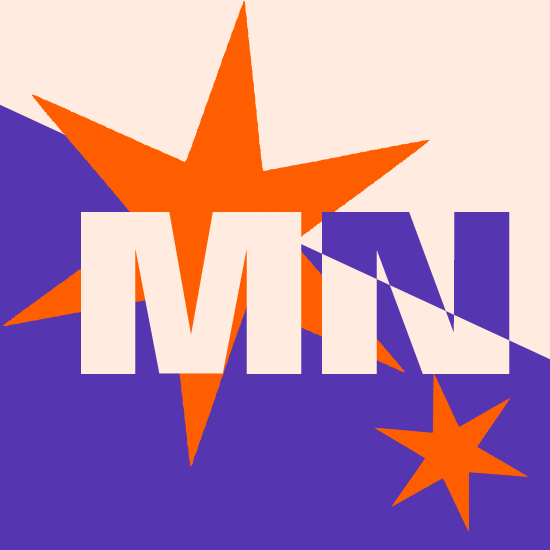
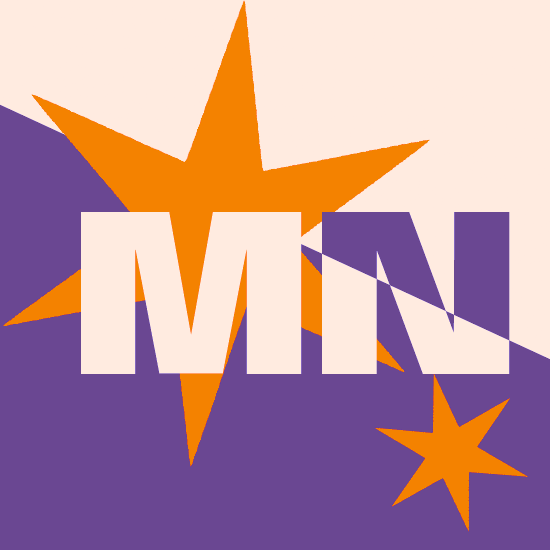
tweaking themes

diff --git a/src/assets/js/themetoggle.js b/src/assets/js/themetoggle.js
@@ -1,12 +1,5 @@
 const darkModeIcon = document.getElementById("dark-mode-icon");
-const themes = [
-  "light",
-  "codec",
-  "aquarium",
-  "sepia",
-  "strawberry",
-  "midnight",
-];
+const themes = ["plum", "codec", "aquarium", "sepia", "strawberry", "midnight"];
 const mii = document.getElementById("mii");
 
 (() => {
@@ -26,7 +19,6 @@ function toggleDarkMode() {
         1) %
         themes.length
     ];
-  console.log(targetTheme);
   document.documentElement.setAttribute("data-theme", targetTheme);
   localStorage.setItem("theme", targetTheme);
   toggleDarkModeIcon(targetTheme);
@@ -46,25 +38,27 @@ function toggleDarkModeIcon(newTheme) {
 }
 
 function toggleMii(newTheme) {
-  let ind = themes.indexOf(newTheme);
-  switch (ind) {
-    case 0:
-      mii.src = "/assets/img/mii.png";
-      break;
-    case 1:
-      mii.src = "/assets/img/mii_codec.png";
-      break;
-    case 2:
-      mii.src = "/assets/img/mii_aquarium.png";
-      break;
-    case 3:
-      mii.src = "/assets/img/mii_sepia.png";
-      break;
-    case 4:
-      mii.src = "/assets/img/mii_strawberry.png";
-      break;
-    case 5:
-      mii.src = "/assets/img/mii_midnight.png";
-      break;
+  if (mii != null) {
+    let ind = themes.indexOf(newTheme);
+    switch (ind) {
+      case 0:
+        mii.src = "/assets/img/mii.png";
+        break;
+      case 1:
+        mii.src = "/assets/img/mii_codec.png";
+        break;
+      case 2:
+        mii.src = "/assets/img/mii_aquarium.png";
+        break;
+      case 3:
+        mii.src = "/assets/img/mii_sepia.png";
+        break;
+      case 4:
+        mii.src = "/assets/img/mii_strawberry.png";
+        break;
+      case 5:
+        mii.src = "/assets/img/mii_midnight.png";
+        break;
+    }
   }
 }

diff --git a/src/assets/sass/style.scss b/src/assets/sass/style.scss
@@ -30,6 +30,9 @@ body {
   font-family: $font-text;
   font-size: 1.2rem;
 
+  transition-property: color, background-color;
+  @include transition-style();
+
   .site-holder {
     flex-grow: 1;
   }
@@ -57,9 +60,11 @@ a {
   background: var(--color-body);
   outline: 1px solid var(--color-body);
   box-shadow: 0 4px 0 0 var(--color-primary);
-  transition: color 0.2s;
   font-weight: 600;
   margin-bottom: 1rem;
+
+  transition-property: color, top, box-shadow, background;
+  @include transition-style();
   &:hover {
     top: 2px;
     box-shadow: 0 2px 0 0 var(--color-primary);
@@ -224,10 +229,13 @@ header {
   margin: 0;
   list-style-type: none;
 
-  & a {
+  a {
     color: var(--color-accent);
     font-weight: 600;
-    @include link-decoration-hover();
+    @include link-hover-glow();
+  }
+
+  button {
     @include link-hover-glow();
   }
 }
@@ -274,6 +282,8 @@ nav button {
 
   position: relative;
   user-select: none;
+
+  @include link-hover-glow();
 
   &::before {
     position: relative;

diff --git a/src/assets/sass/_variables.scss b/src/assets/sass/_variables.scss
@@ -52,11 +52,11 @@
   src: url("../fonts/anybody-v11-latin-900italic.woff2") format("woff2"); /* Chrome 36+, Opera 23+, Firefox 39+, Safari 12+, iOS 10+ */
 }
 
-html[data-theme="light"] {
-  --color-body: #5636b0;
+html[data-theme="plum"] {
+  --color-body: #6a4792;
   --color-background: #ffebe0;
-  --color-primary: #ff5e00;
-  --color-accent: var(--color-primary);
+  --color-primary: #f48200;
+  --color-accent: var(--color-body);
   --color-glow: #ff7d6090;
 }
 
@@ -108,14 +108,16 @@ $link-glow: drop-shadow(0px 0px 7px var(--color-glow));
 $link-glow-hover: drop-shadow(0px 0px 4px var(--color-primary));
 
 @mixin transition-style() {
-  transition-duration: 0.2s;
+  transition-duration: 150ms;
   transition-timing-function: ease-in-out;
 }
 
 @mixin link-hover-glow() {
-  transition: filter 0.2s ease-in-out;
+  transition-property: filter, color;
+  @include transition-style();
   &:hover {
     @include link-glow();
+    color: var(--color-primary);
   }
 }
 
